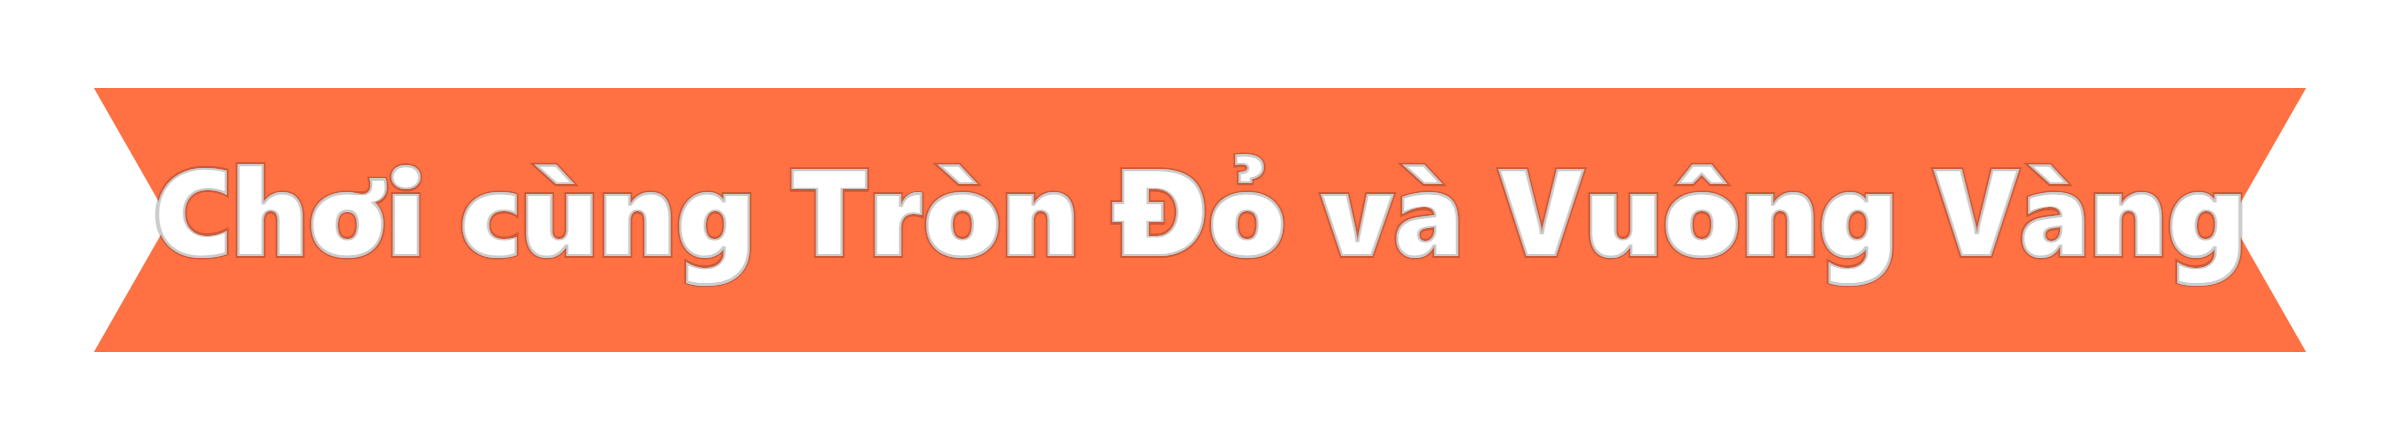
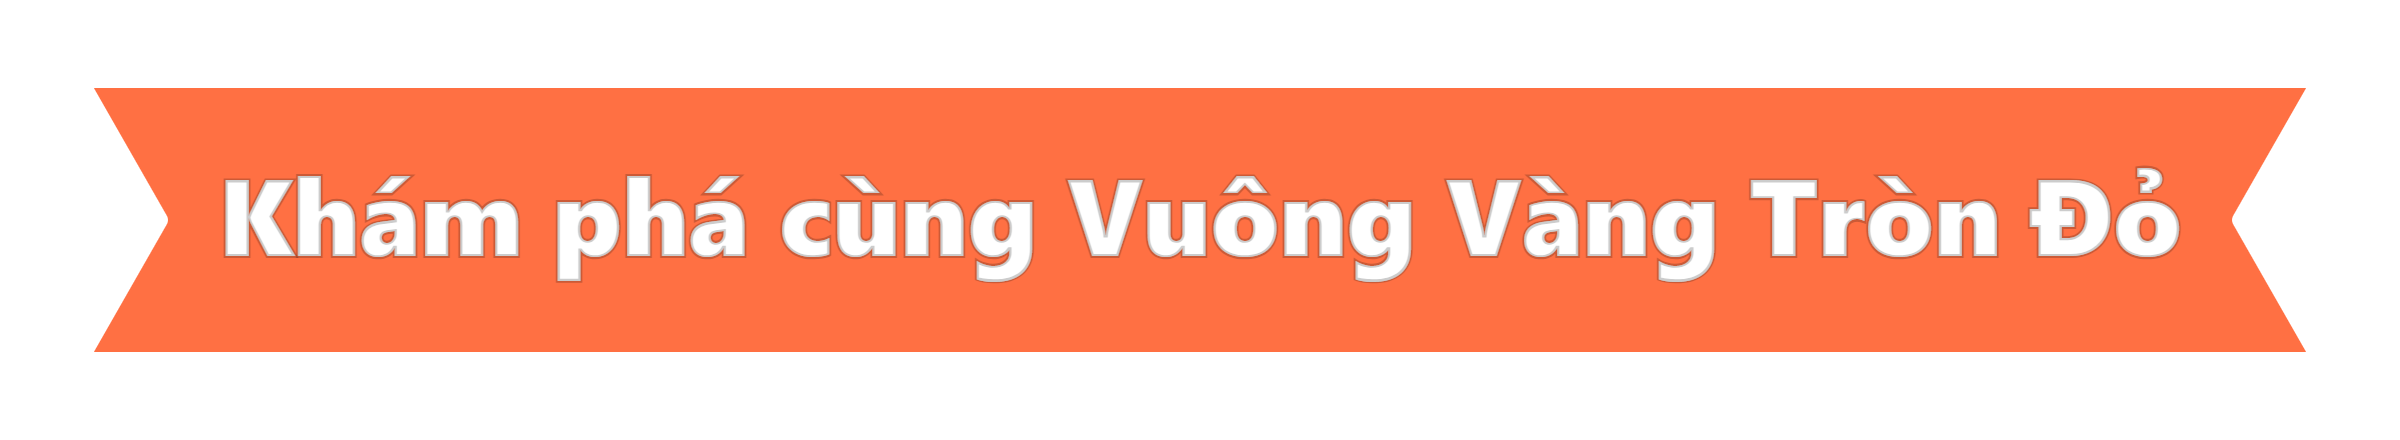
Đổi tên trò chơi: Khám phá cùng Vuông Vàng Tròn Đỏ

Changed region(s): [[0.0625, 0.3545, 0.9375, 0.65]]

diff --git a/index.html b/index.html
@@ -3,7 +3,7 @@
 <head>
 <meta charset="utf-8">
 <meta name="viewport" content="width=device-width, initial-scale=1, user-scalable=no">
-<title>Trò chơi Tròn Đỏ và Vuông Vàng</title>
+<title>Khám phá cùng Vuông Vàng Tròn Đỏ</title>
 <meta name="description" content="Trò chơi số cho trẻ mầm non 4–5 tuổi: nhận biết hình tròn, hình vuông, màu đỏ, màu vàng cùng Tròn Đỏ và Vuông Vàng.">
 <link rel="preconnect" href="https://fonts.googleapis.com">
 <link href="https://fonts.googleapis.com/css2?family=Baloo+2:wght@500;700;800&display=swap" rel="stylesheet">
@@ -12,7 +12,7 @@
 <body>
 
 <header id="topbar">
-  <div class="brand"><span class="logo-c"></span><span class="logo-s"></span><b id="brandTxt">Chơi cùng Tròn Đỏ và Vuông Vàng</b></div>
+  <div class="brand"><span class="logo-c"></span><span class="logo-s"></span><b id="brandTxt">Khám phá cùng Vuông Vàng Tròn Đỏ</b></div>
   <nav class="tools">
     <button id="btnStars" title="Bảng sao">⭐<span id="starTxt">0/3</span></button>
     <button id="btnHome" title="Chọn màn chơi">🏠<span>Chọn màn</span></button>
@@ -36,7 +36,7 @@
 
 <div id="splash">
   <div class="splash-card">
-    <img src="hinh/bien_ten_game.png" alt="Chơi cùng Tròn Đỏ và Vuông Vàng">
+    <img src="hinh/bien_ten_game.png" alt="Khám phá cùng Vuông Vàng Tròn Đỏ">
     <p class="small">3 màn chơi: hình tròn – hình vuông, màu đỏ – màu vàng, xây tháp phép thuật</p>
     <button id="btnOpen" class="big-btn green">▶ Bắt đầu chơi</button>
     <p class="small">Trẻ mẫu giáo 4–5 tuổi · Nên bật loa và chơi trên màn hình cảm ứng hoặc chuột</p>

diff --git a/js/game.js b/js/game.js
@@ -1,5 +1,5 @@
 /* =========================================================
-   TRÒ CHƠI SỐ: Chơi cùng Tròn Đỏ và Vuông Vàng (bản web độc lập)
+   TRÒ CHƠI SỐ: Khám phá cùng Vuông Vàng Tròn Đỏ (bản web độc lập)
    Màn 1 – Đút bánh cho quái vật (phân loại HÌNH)
    Màn 2 – Cơn mưa bong bóng      (phân loại MÀU)
    Màn 3 – Xây tháp phép thuật    (kết hợp HÌNH + MÀU)
@@ -213,7 +213,7 @@
      MÀN HÌNH CHỌN MÀN
      ========================================================= */
   function home() {
-    clear('nen_bia', 'Chơi cùng Tròn Đỏ và Vuông Vàng', ['tc_bia']);
+    clear('nen_bia', 'Khám phá cùng Vuông Vàng Tròn Đỏ', ['tc_bia']);
     img('bien_ten_game', 12, 3, 76, 'popin');
     img('nhan_vat_tron_do', 4, 30, 19, 'popin'); img('nhan_vat_vuong_vang', 77, 30, 19, 'popin');
     img('quai_vat_tron_mo', 6, 68, 13); img('quai_vat_vuong_mo', 81, 68, 13);

diff --git a/js/data.js b/js/data.js
@@ -1,5 +1,5 @@
 window.STORY = {
- "title": "Chơi cùng Tròn Đỏ và Vuông Vàng",
+ "title": "Khám phá cùng Vuông Vàng Tròn Đỏ",
  "voices": {
   "dan": {
    "name": "Người dẫn",

diff --git a/README.md b/README.md
@@ -1,4 +1,4 @@
-# Trò chơi Tròn Đỏ và Vuông Vàng (bản web)
+# Khám phá cùng Vuông Vàng Tròn Đỏ (trò chơi bản web)
 
 3 màn chơi cho trẻ mẫu giáo 4–5 tuổi: **Đút bánh cho quái vật** (hình tròn/vuông), **Cơn mưa bong bóng** (màu đỏ/vàng), **Xây tháp phép thuật** (hình + màu).
 
